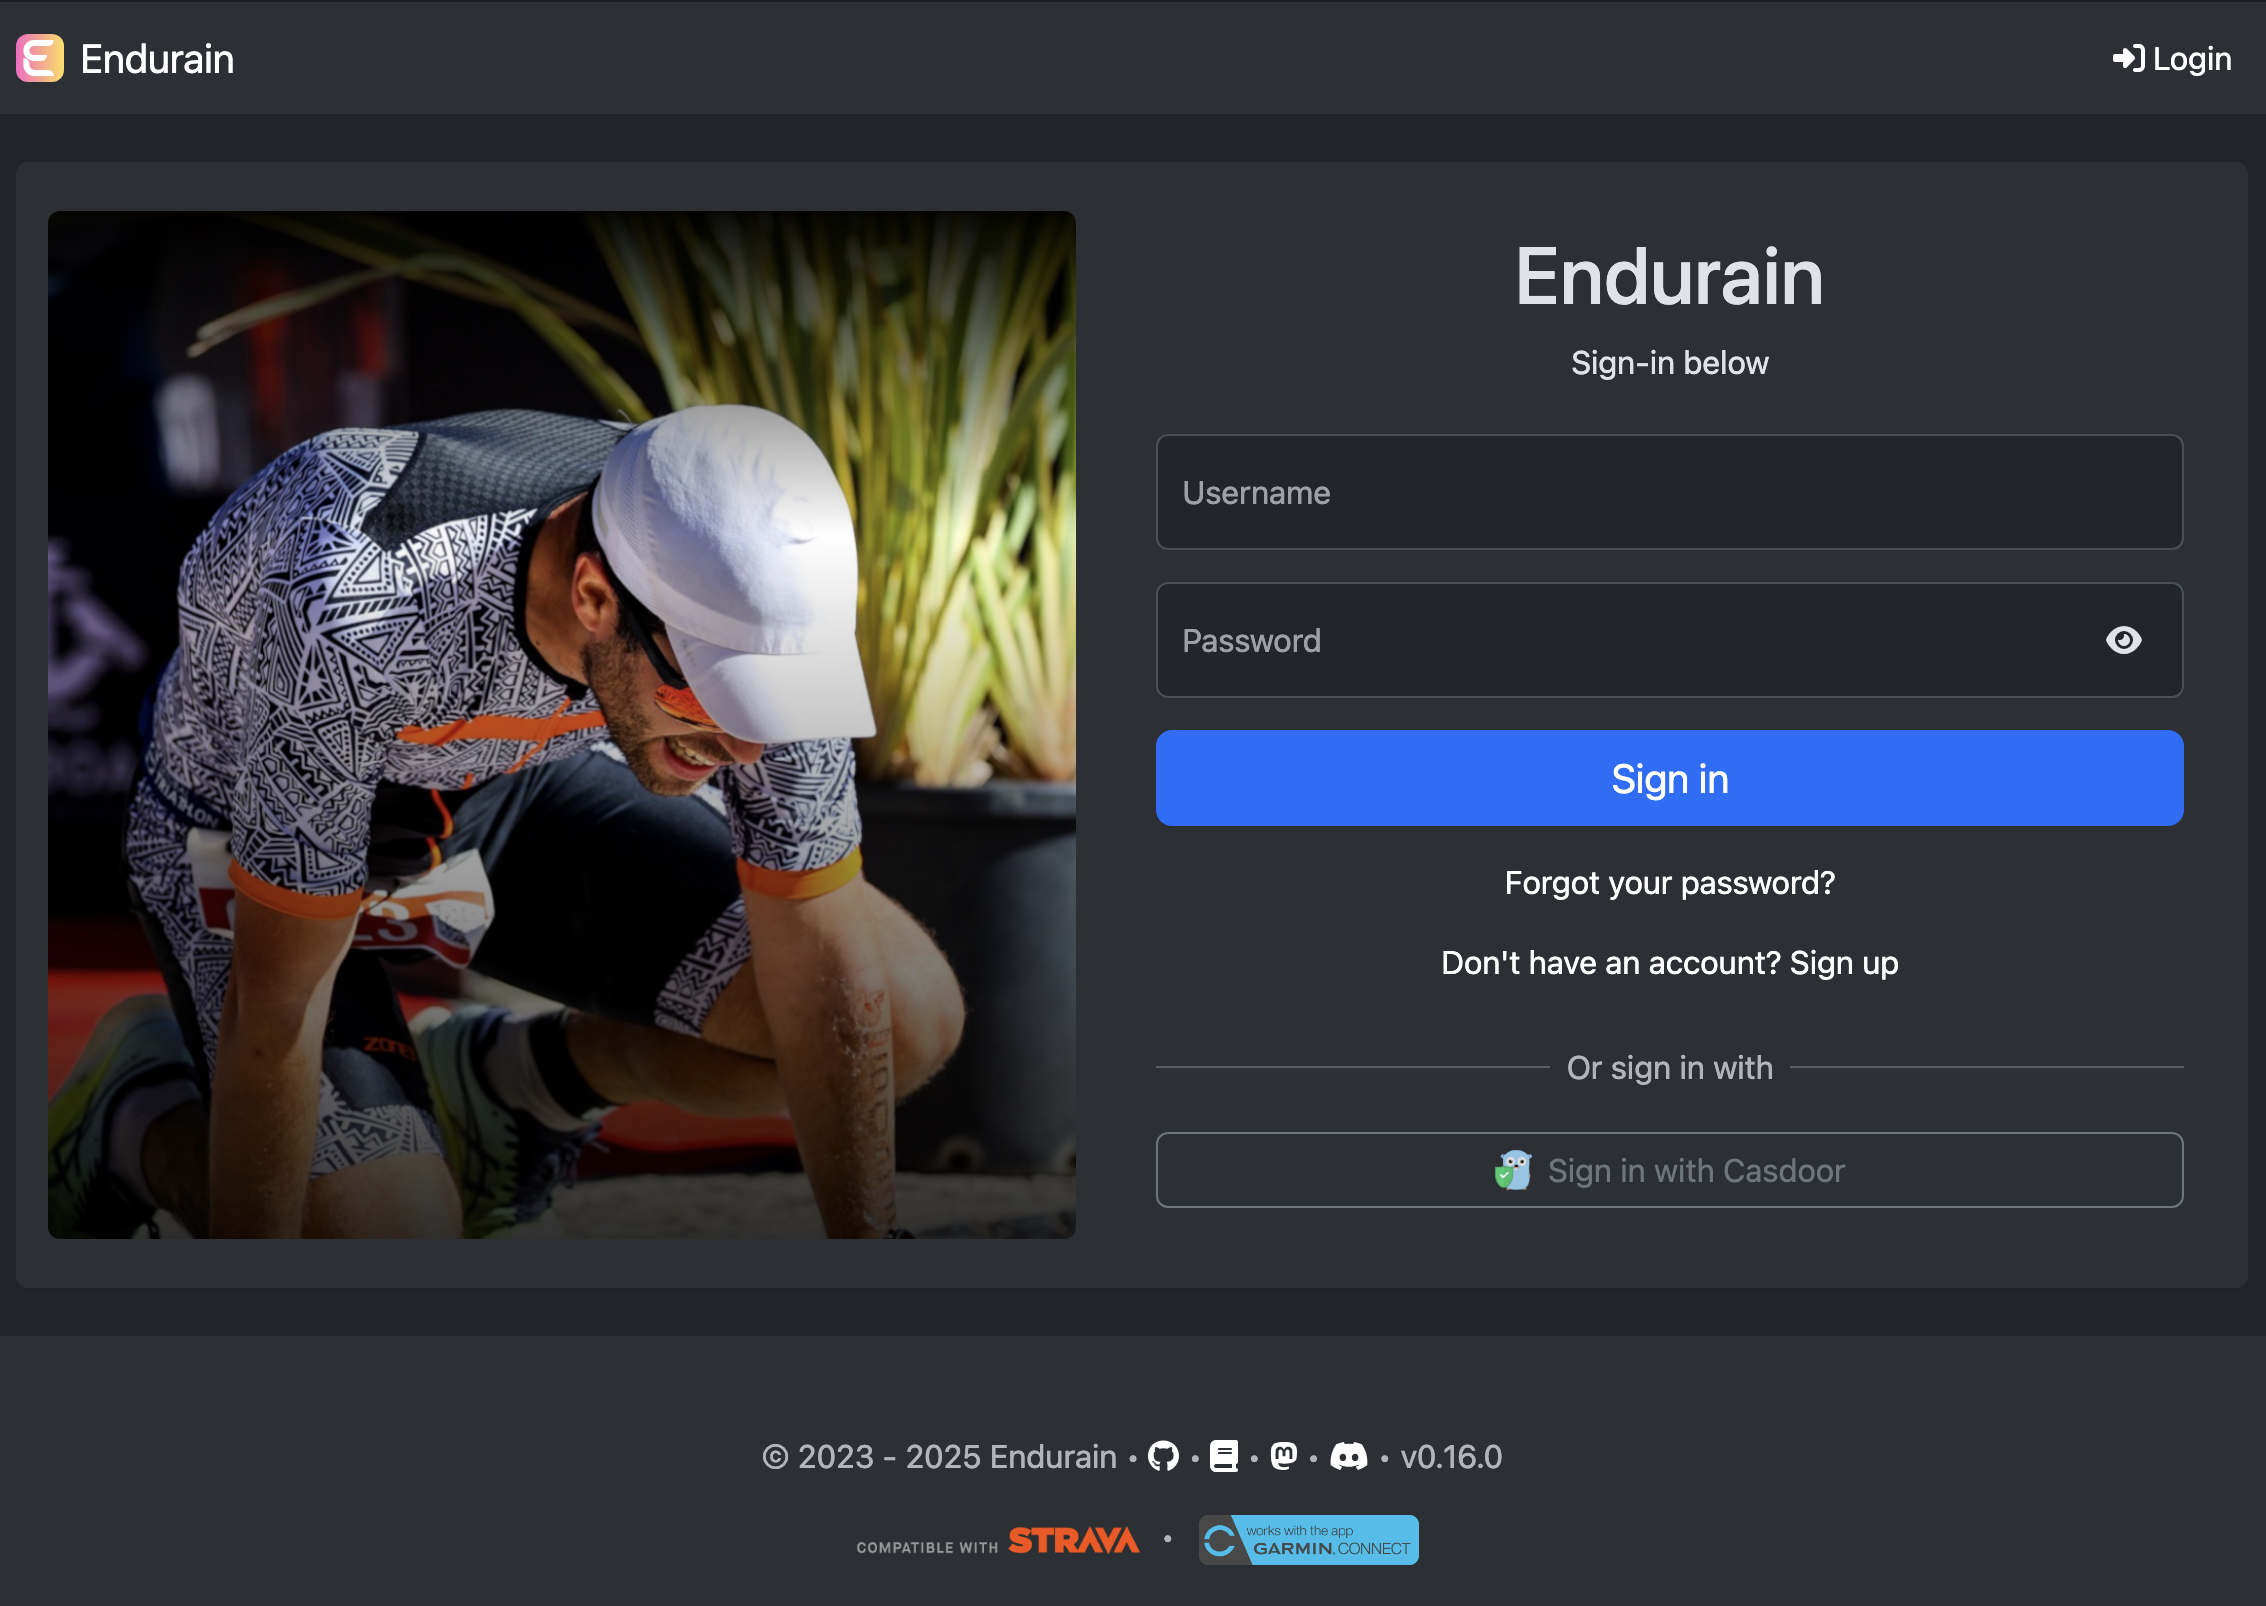
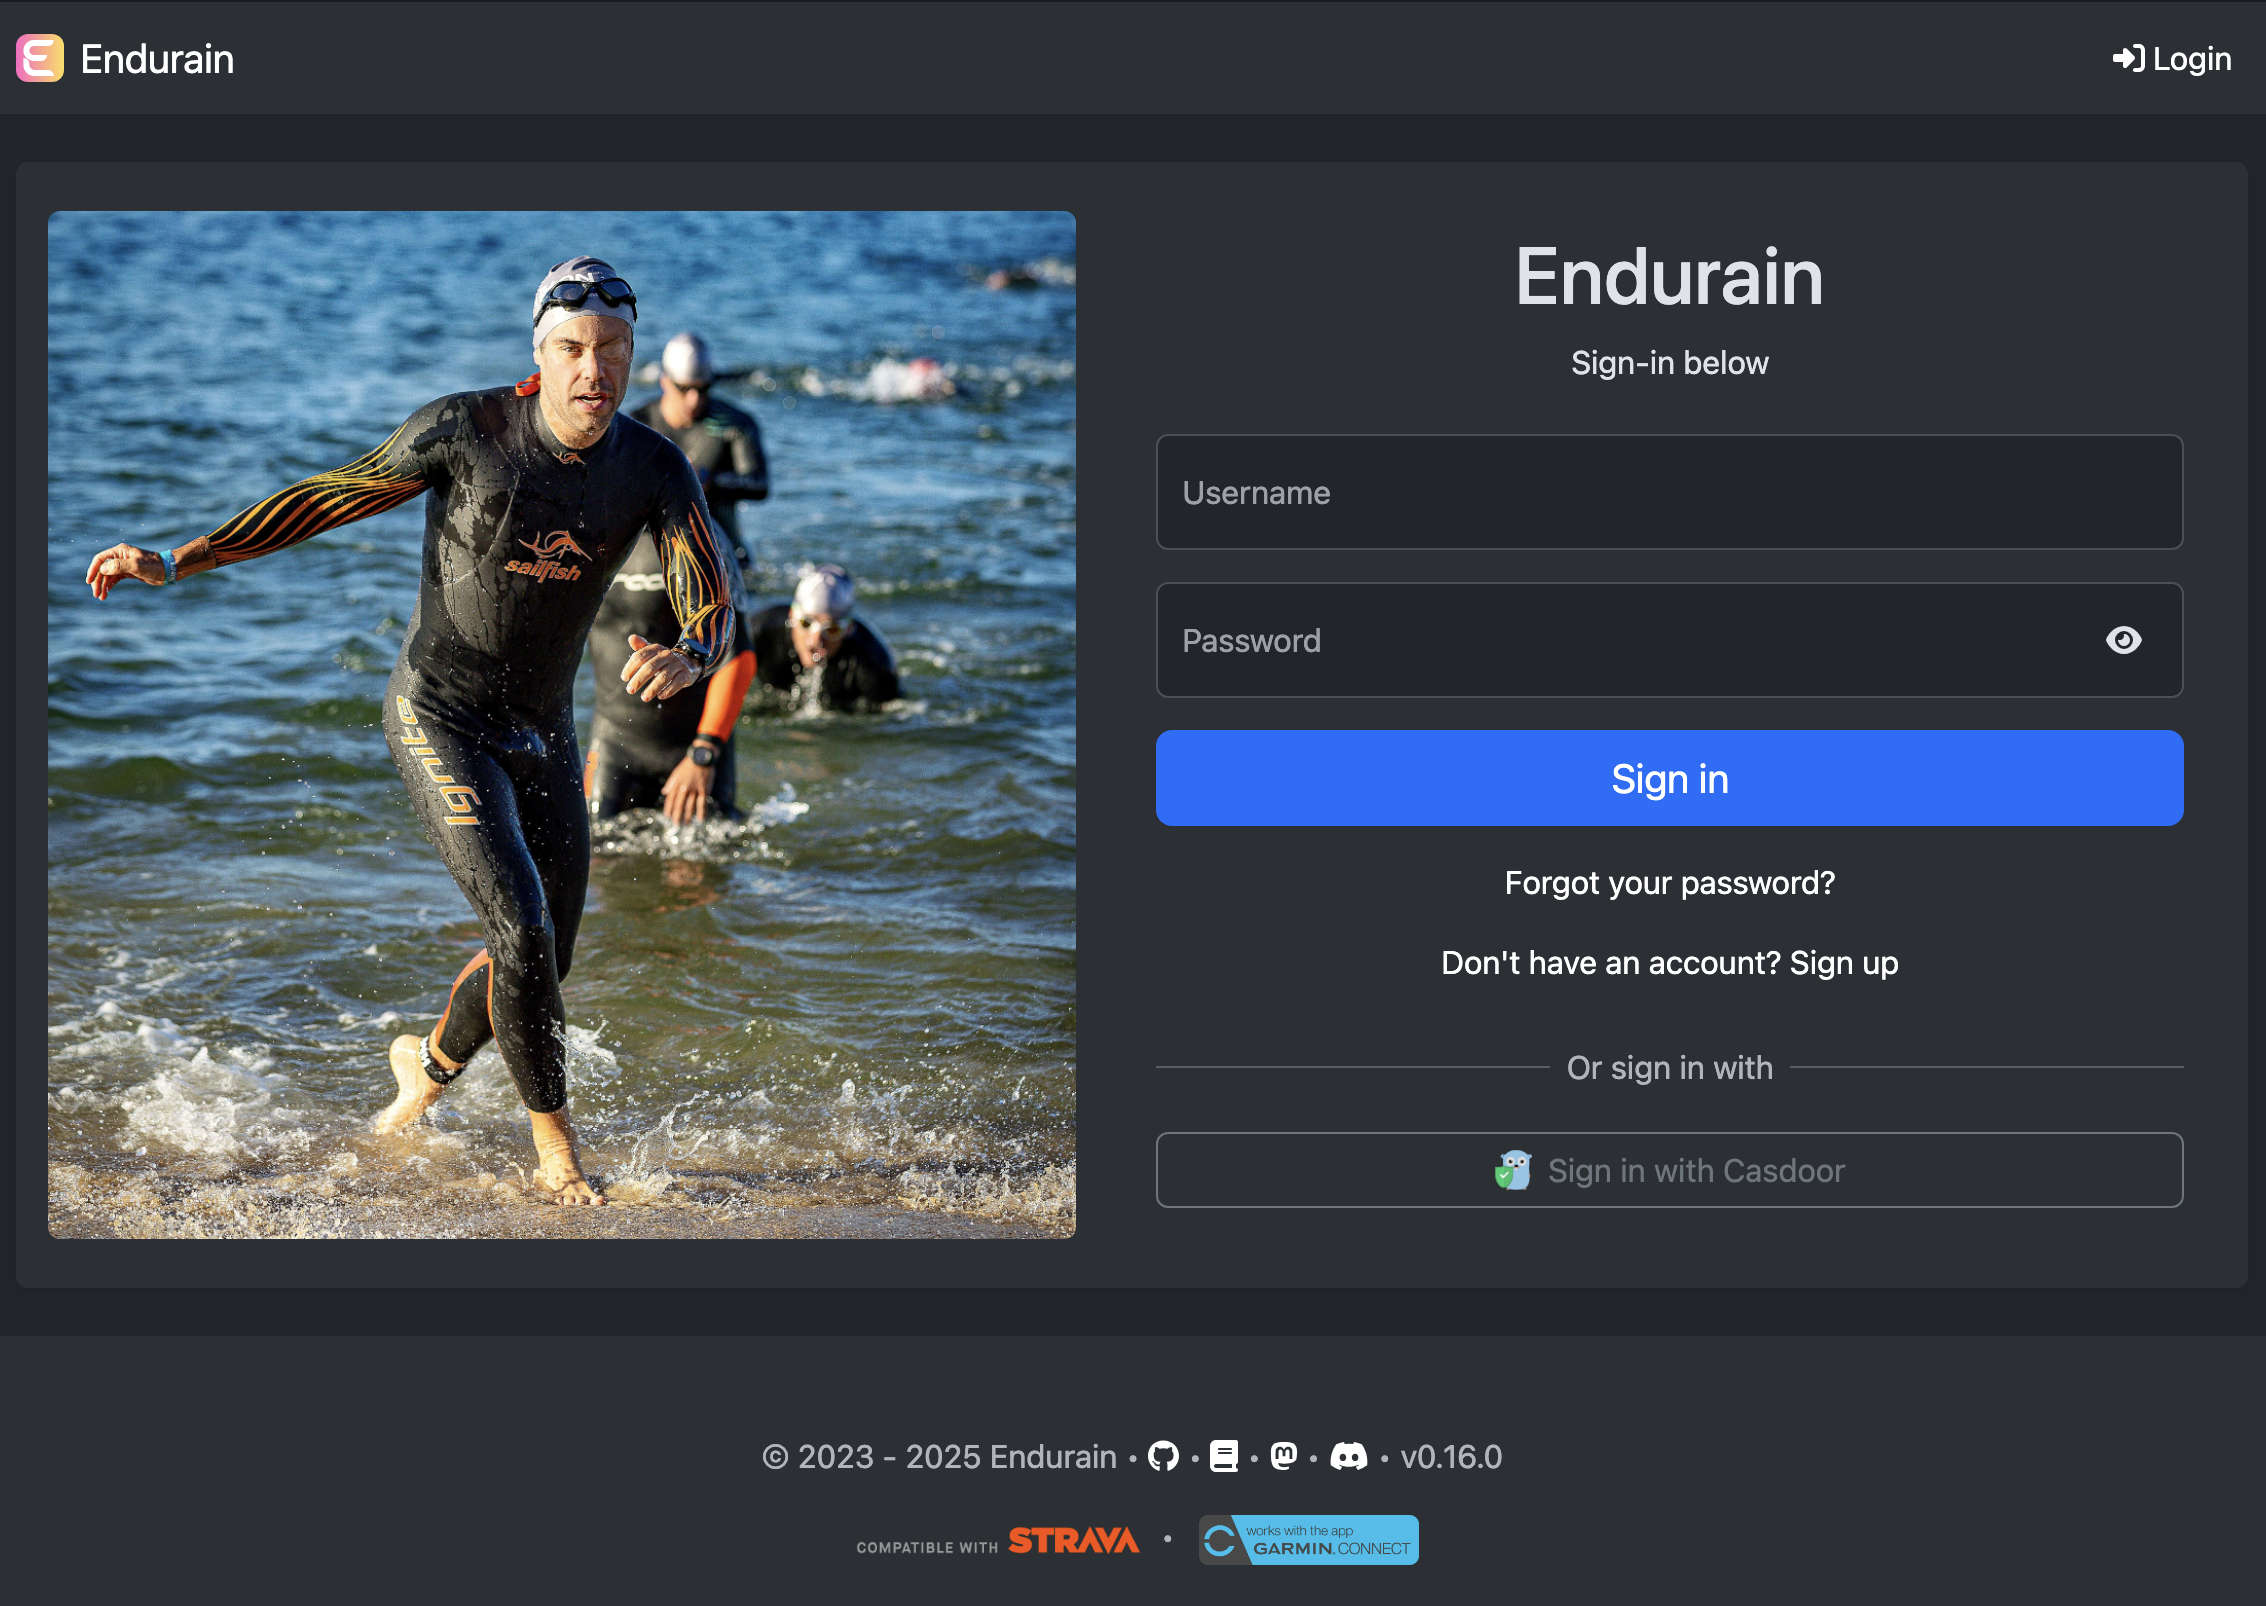
Update gallery screenshots and documentation
Replaced login, reset password modal, and sign-up screenshots in the gallery. Updated gallery.md to specify that images should be 1000x1000 pixels. Also updated the login asset in the frontend.

Changed region(s): [[0.0, 0.1245, 0.4943, 0.7783]]

diff --git a/docs/gallery.md b/docs/gallery.md
@@ -1,7 +1,7 @@
 # Gallery
 
 ##### Login and sign-up page
-**Image can be changed**
+**Image can be changed. Image with a size of 1000x1000 pixels is expected.**
 ![Login](assets/gallery/screenshot_login.png)
 ![Password reset modal](assets/gallery/screenshot_reset_password_modal.png)
 ![Sign Up](assets/gallery/screenshot_sign_up.png)
